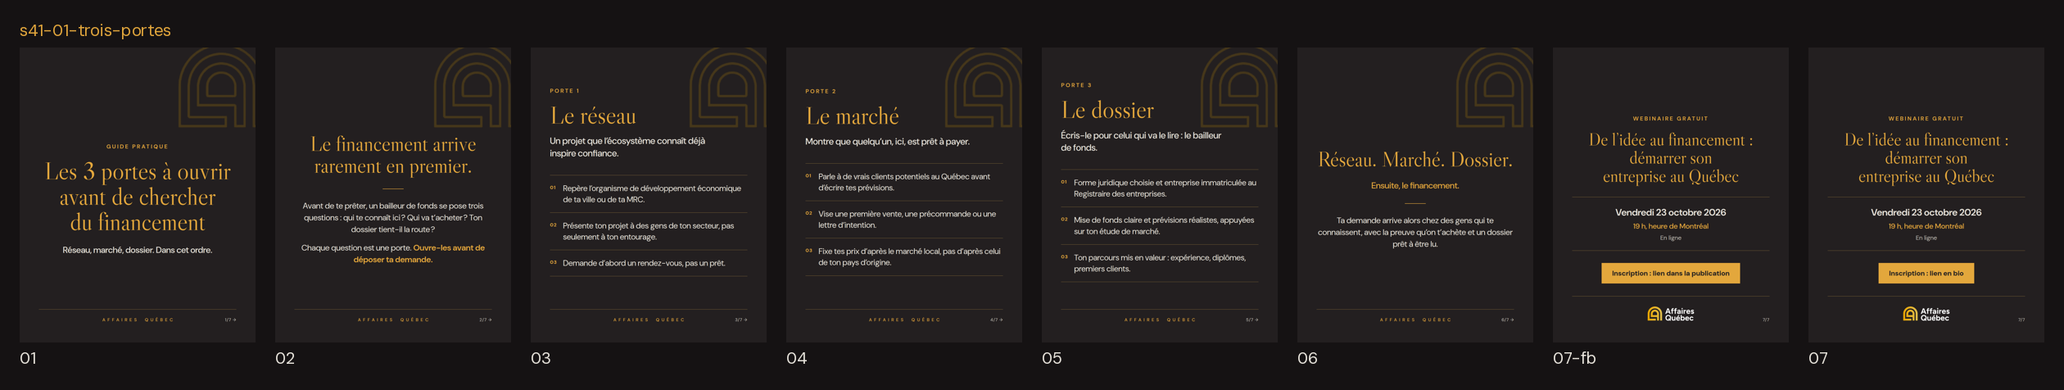
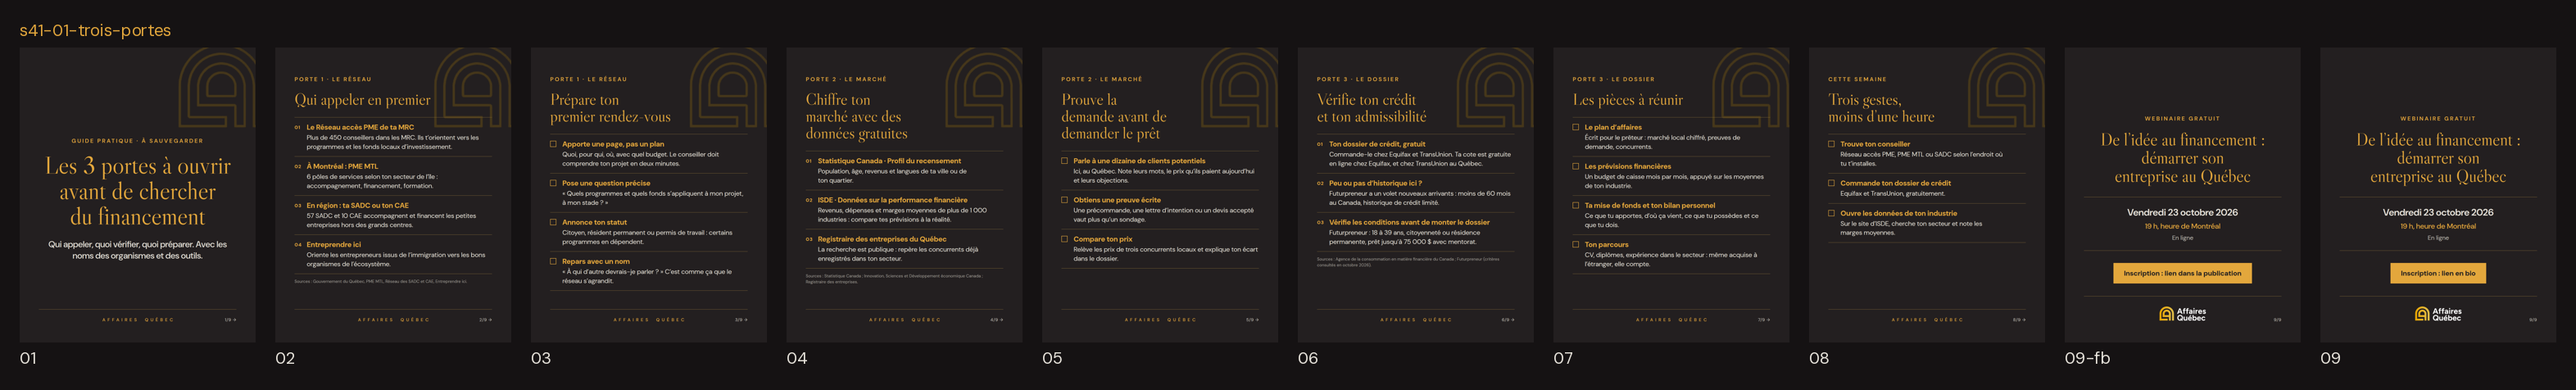
Refait le carrousel S41 « Les 3 portes » avec des ressources nommées et sourcées (9 slides)
- organismes (Réseau accès PME, PME MTL, SADC/CAE, Entreprendre ici), données gratuites
  (recensement, ISDE), dossier de crédit, critères Futurpreneur, pièces du dossier
- nouveau gabarit « ressources » (liste nommée ou à cocher, ligne de source)
- contrôle : contenu trop proche du pied ; espaces insécables visibles avec DM Sans

Claude-Session: https://claude.ai/code/session_0137h3noMWYFivUKuNtC5p8J

diff --git a/visuels/outils/aq.css b/visuels/outils/aq.css
@@ -62,3 +62,15 @@ body { font-family: "DM Sans", sans-serif; color: var(--texte); -webkit-font-smo
 .evenement .heure { font-size: 34px; font-weight: 500; color: var(--or-titre); margin-top: 12px; }
 .evenement .lieu { font-size: 28px; font-weight: 400; color: var(--texte); opacity: .8; margin-top: 12px; }
 .appel { display: inline-block; margin-top: 56px; padding: 26px 48px; background: var(--or-titre); color: var(--noir); font-size: 32px; font-weight: 700; letter-spacing: .01em; }
+
+/* Ressources nommées (slides « porte » détaillées) */
+.ed .corps.haut { justify-content: flex-start; padding-top: 40px; }
+.ressources { list-style: none; margin-top: 44px; }
+.ressources li { padding: 24px 0 24px 56px; border-top: 1.5px solid var(--filet); position: relative; }
+.ressources li:last-child { border-bottom: 1.5px solid var(--filet); }
+.ressources li::before { content: attr(data-n); position: absolute; left: 0; top: 31px; font-size: 22px; font-weight: 700; letter-spacing: .08em; color: var(--or-titre); }
+.ressources.coche li::before { content: ""; top: 30px; width: 24px; height: 24px; border: 2px solid var(--or-titre); }
+.ressources .nom { display: block; font-size: 33px; font-weight: 700; line-height: 1.25; color: var(--or-titre); margin-bottom: 6px; text-wrap: pretty; }
+.ressources .explication { display: block; font-size: 30px; line-height: 1.38; color: var(--texte); text-wrap: pretty; }
+.source { margin-top: 22px; font-size: 19px; line-height: 1.4; color: var(--texte); opacity: .62; text-wrap: pretty; }
+.ed .corps.haut .titre { max-width: 640px; font-size: 74px; }

diff --git a/visuels/outils/aq.py b/visuels/outils/aq.py
@@ -44,10 +44,10 @@ def typo(s):
         return s
     s = s.replace("'", "’")
     s = re.sub(r"\s*([:%$])(?=\s|$|<)", NBSP + r"\1", s)
-    s = re.sub(r"\s*([;?!])", NNBSP + r"\1", s)
+    s = re.sub(r"\s*([;?!])", NBSP + r"\1", s)
     s = re.sub(r"«\s*", "«" + NBSP, s)
     s = re.sub(r"\s*»", NBSP + "»", s)
-    s = re.sub(r"(\d) (\d{3})\b", r"\1" + NNBSP + r"\2", s)
+    s = re.sub(r"(\d) (\d{3})\b", r"\1" + NBSP + r"\2", s)
     s = re.sub(r"(\d) (h|ans|entreprises|octobre|novembre|décembre)\b", r"\1" + NBSP + r"\2", s)
     s = re.sub(r"\b(n°|J-) ?(\d)", r"\1\2", s)
     s = s.replace(" →", NBSP + "→").replace(" —", NBSP + "—")
@@ -94,6 +94,25 @@ def g_porte(d):
     </div>"""
 
 
+def g_ressources(d):
+    """Liste de ressources nommées (nom en or + explication), ou liste à cocher si "coche" est vrai."""
+    def item(i, x):
+        if isinstance(x, str):
+            x = {"texte": x}
+        nom = f'<span class="nom">{t(x["nom"])}</span>' if x.get("nom") else ""
+        return f'<li data-n="{i:02d}">{nom}<span class="explication">{t(x["texte"])}</span></li>'
+    items = "".join(item(i, x) for i, x in enumerate(d["items"], 1))
+    classes = "ressources" + (" coche" if d.get("coche") else "")
+    return f"""
+    <div class="corps haut">
+      <div class="surtitre">{t(d["surtitre"])}</div>
+      <h2 class="titre {d.get("taille", "m")}">{t(d["titre"])}</h2>
+      {f'<p class="chapeau">{t(d["chapeau"])}</p>' if d.get("chapeau") else ""}
+      <ul class="{classes}">{items}</ul>
+      {f'<p class="source">{t(d["source"])}</p>' if d.get("source") else ""}
+    </div>"""
+
+
 def g_evenement(d):
     return f"""
     <div class="corps">
@@ -108,7 +127,7 @@ def g_evenement(d):
     </div>"""
 
 
-GABARITS = {"couverture": g_couverture, "texte": g_texte, "porte": g_porte, "evenement": g_evenement}
+GABARITS = {"couverture": g_couverture, "texte": g_texte, "porte": g_porte, "ressources": g_ressources, "evenement": g_evenement}
 AVEC_LOGO = {"evenement"}  # slides qui portent le logo complet : pas de filigrane
 
 
@@ -152,7 +171,7 @@ QA_JS = """
     if (q.left < m - 1 || q.right > W - m + 1 || q.top < m - 1 || q.bottom > H - m + 1) pb.push(`image hors marge : ${i.getAttribute('src')}`);
   });
   // 2. Mots orphelins : dernière ligne d'un bloc réduite à un seul mot
-  document.querySelectorAll('h1,h2,p,li,.jour,.heure,.lieu,.appel').forEach(el => {
+  document.querySelectorAll('h1,h2,p,li:not(.ressources li),.nom,.explication,.jour,.heure,.lieu,.appel').forEach(el => {
     const mots = [];
     const tw = document.createTreeWalker(el, NodeFilter.SHOW_TEXT);
     let n;
@@ -166,10 +185,21 @@ QA_JS = """
     const lignes = [...new Set(mots.map(o => o.y))];
     if (lignes.length > 1) {
       const der = mots.filter(o => o.y === lignes[lignes.length - 1]);
-      if (der.length === 1) pb.push(`mot orphelin « ${der[0].m} » dans « ${el.textContent.trim().slice(0, 50)} »`);
+      if (der.length === 1 && der[0].m.split(/[\u00a0]/).filter(w => w.length > 2).length < 2) pb.push(`mot orphelin « ${der[0].m} » dans « ${el.textContent.trim().slice(0, 50)} »`);
     }
   });
-  // 3. Polices réellement chargées
+  // 3. Le contenu ne doit pas toucher le pied (filet + signature)
+  const pied = document.querySelector('.pied');
+  if (pied) {
+    const lim = pied.getBoundingClientRect().top - 24;
+    document.querySelectorAll('.corps *').forEach(el => {
+      if (!el.children.length && el.getBoundingClientRect().bottom > lim) pb.push(`contenu trop proche du pied : « ${el.textContent.trim().slice(0, 40)} »`);
+    });
+    document.querySelectorAll('.ressources li, .liste li').forEach(el => {
+      if (el.getBoundingClientRect().bottom > lim) pb.push(`liste trop proche du pied : « ${el.textContent.trim().slice(0, 40)} »`);
+    });
+  }
+  // 4. Polices réellement chargées
   for (const f of ['400 40px Caslon', '400 40px "DM Sans"'])
     if (!document.fonts.check(f)) pb.push('police non chargée : ' + f);
   return pb;

diff --git a/visuels/2026-S41/sources.md b/visuels/2026-S41/sources.md
@@ -1,6 +1,21 @@
 # Sources — semaine 41
 
-## Carrousel « Les 3 portes »
-Aucune statistique ni aucun chiffre sur les visuels. Faits utilisés :
-- Webinaire gratuit, vendredi 23 octobre 2026, 19 h (heure de Montréal), titre « De l'idée au financement : démarrer son entreprise au Québec » : bandeau du site affairesquebec.ca et page Eventbrite.
-- Immatriculation d'une entreprise au Registraire des entreprises du Québec : https://www.registreentreprises.gouv.qc.ca/
+Les pages officielles ont été vérifiées le 5 octobre 2026 par recherche (le conteneur de production ne peut pas les ouvrir directement). **À revérifier par Rénald avant publication**, en particulier les critères de Futurpreneur, qui changent.
+
+## Carrousel « Les 3 portes » (s41-01)
+
+| Affirmation sur le visuel | Source |
+| --- | --- |
+| Réseau accès PME : plus de 450 conseillers issus des MRC ou d'organismes délégataires ; oriente vers les programmes et facilite le financement, notamment par les fonds locaux d'investissement | Gouvernement du Québec, « Réseau accès PME » : https://www.quebec.ca/entreprises-et-travailleurs-autonomes/accompagnement-services/points-service et communiqué « Réseau accès PME – La porte d'entrée pour soutenir les entrepreneurs » : https://www.quebec.ca/nouvelles/actualites/details/reseau-acces-pme-la-porte-dentree-pour-soutenir-les-entrepreneurs-62341 |
+| PME MTL : 6 pôles de services ; accompagnement, financement, formation | https://pmemtl.com/a-propos et https://pmemtl.com/en/services |
+| 57 SADC et 10 CAE accompagnent et financent les petites entreprises en région | Réseau des SADC et CAE : https://www.sadc-cae.ca/fr/sadc-et-cae-une-force-locale-qui-fait-la-difference-pour-les-entreprises/ |
+| Entreprendre ici oriente les entrepreneurs issus de l'immigration vers les organismes de l'écosystème | https://immigrantquebec.com/fr/conseils-d-experts/entrepreneurs-de-la-diversite-ethnoculturelle-a-vos-projets/ ; Gouvernement du Québec, évaluation 2022 : https://www.quebec.ca/gouvernement/ministeres-organismes/economie/publications/evaluation-organismes-finances/entreprendre-ici-2022-evaluation |
+| Profil du recensement : population, âge, revenus, langues par ville ou secteur | Statistique Canada, Profil du recensement (www12.statcan.gc.ca) |
+| ISDE, Données sur la performance financière : plus de 1 000 industries ; revenus, dépenses, moyennes de l'industrie | https://ised-isde.canada.ca/site/ised/en/financial-performance-data |
+| Recherche publique au Registraire des entreprises | https://www.registreentreprises.gouv.qc.ca/ |
+| Dossier de crédit gratuit chez Equifax et TransUnion ; cote gratuite en ligne chez Equifax partout et chez TransUnion au Québec et en Ontario | Agence de la consommation en matière financière du Canada : https://www.canada.ca/fr/agence-consommation-matiere-financiere/services/dossier-pointage-credit/commander-dossier-credit.html |
+| Futurpreneur : 18 à 39 ans, citoyen ou résident permanent résidant au Canada, prêt jusqu'à 75 000 $ avec mentorat | https://futurpreneur.ca/en/eligibility/ et communiqué « Futurpreneur raises loan amounts … up to $75,000 » |
+| Volet nouveaux arrivants : moins de 60 mois au Canada, historique de crédit limité ou inexistant | https://futurpreneur.ca/en/offering/newcomers/ |
+| Webinaire gratuit, vendredi 23 octobre 2026, 19 h (heure de Montréal) | Bandeau du site affairesquebec.ca ; page Eventbrite |
+
+Conseils non chiffrés (premier rendez-vous, entretiens clients, preuve écrite, pièces du dossier) : pratiques d'accompagnement d'AQ, sans statistique.

diff --git a/visuels/2026-S41/legendes.md b/visuels/2026-S41/legendes.md
@@ -3,27 +3,25 @@
 Lien d'inscription : https://www.eventbrite.com/x/de-lidee-au-financement-demarrer-son-entreprise-au-quebec-tickets-2002182374379
 
 ## 1. Carrousel « Les 3 portes à ouvrir avant de chercher du financement »
-Fichiers : `s41-01-trois-portes-01.png` à `-07.png` (Instagram) ; remplacer la slide 7 par `-07-fb.png` sur Facebook.
+Fichiers : `s41-01-trois-portes-01.png` à `-09.png` (Instagram) ; sur Facebook, remplacer la slide 9 par `-09-fb.png`.
 
 ### Instagram
-Avant de chercher du financement, ouvre trois portes.
+Avant de chercher du financement, ouvre trois portes. Voici qui appeler, quoi vérifier et quoi préparer. 📌 Sauvegarde ce carrousel.
 
-Un bailleur de fonds ne regarde pas seulement ton plan. Il se demande qui te connaît ici, qui va t'acheter et si ton dossier tient la route.
+1. Le réseau : le Réseau accès PME de ta MRC, PME MTL à Montréal, ta SADC ou ton CAE en région, et Entreprendre ici si tu es issu de l'immigration.
+2. Le marché : le Profil du recensement de Statistique Canada et les données sur la performance financière d'ISDE, toutes deux gratuites. Ensuite, des preuves écrites que des clients d'ici veulent acheter.
+3. Le dossier : ton dossier de crédit (gratuit chez Equifax et TransUnion), les conditions des programmes, et les pièces que le prêteur va lire.
 
-1. Le réseau : rencontre l'organisme de développement économique de ta ville ou de ta MRC.
-2. Le marché : montre qu'un client, ici, est prêt à payer.
-3. Le dossier : écris-le pour celui qui va le lire.
-
-On en parle en détail au webinaire gratuit « De l'idée au financement : démarrer son entreprise au Québec », le vendredi 23 octobre à 19 h (heure de Montréal).
+On va plus loin au webinaire gratuit « De l'idée au financement : démarrer son entreprise au Québec », le vendredi 23 octobre à 19 h (heure de Montréal).
 
 Inscription : lien en bio.
 
-#EntrepreneuriatImmigrant #AffairesQuébec #Entrepreneuriat #Financement #PlanDAffaires #DéveloppementÉconomique #Québec #Montréal #TroisRivières #NouveauxArrivants
+#EntrepreneuriatImmigrant #AffairesQuébec #Entrepreneuriat #Financement #PlanDAffaires #DéveloppementÉconomique #NouveauxArrivants #Québec #Montréal #TroisRivières #Futurpreneur
 
 ### Facebook
 Avant de chercher du financement, ouvre trois portes : le réseau, le marché et le dossier.
 
-Un bailleur de fonds se pose trois questions : qui te connaît ici ? Qui va t'acheter ? Ton dossier tient-il la route ? Le carrousel te donne trois gestes concrets pour chacune.
+Dans ce carrousel : les organismes à appeler en premier (Réseau accès PME, PME MTL, SADC et CAE, Entreprendre ici), les données gratuites pour chiffrer ton marché, comment obtenir ton dossier de crédit gratuitement et les conditions de Futurpreneur pour les nouveaux arrivants.
 
 On approfondit le sujet au webinaire gratuit « De l'idée au financement : démarrer son entreprise au Québec », le vendredi 23 octobre 2026 à 19 h (heure de Montréal).
 
